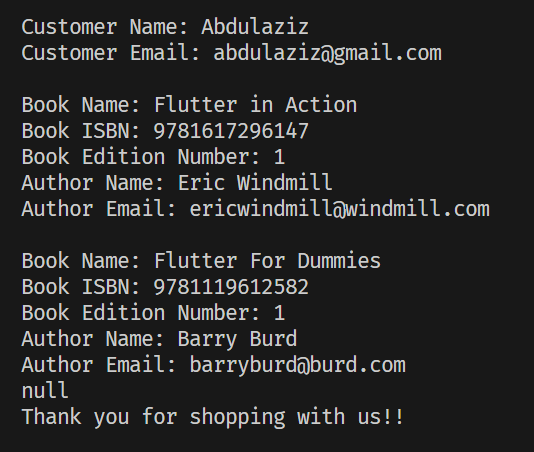
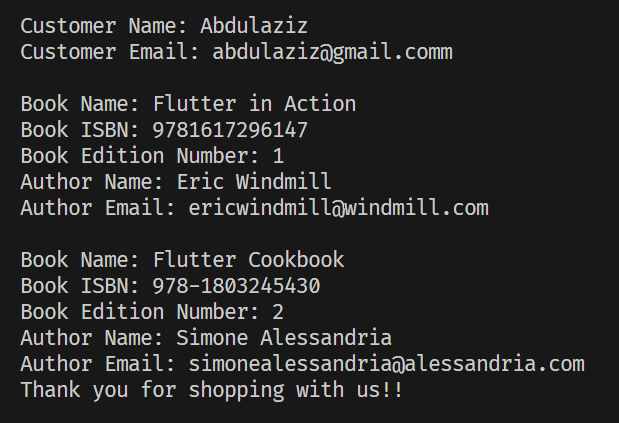
changed image in README.md

Changed region(s): [[0.03, 0.5532, 0.9588, 0.9527], [0.03, 0.2151, 0.9288, 0.5225], [0.03, 0.0307, 0.839, 0.1537]]

diff --git a/oop-and-errorhandling/bin/menu.dart b/oop-and-errorhandling/bin/menu.dart
@@ -148,6 +148,6 @@ bookStore() {
     }
   } while (choice != '0');
 
-  print(customer1.printInformation());
+  customer1.printInformation();
   print('Thank you for shopping with us!!');
 }
